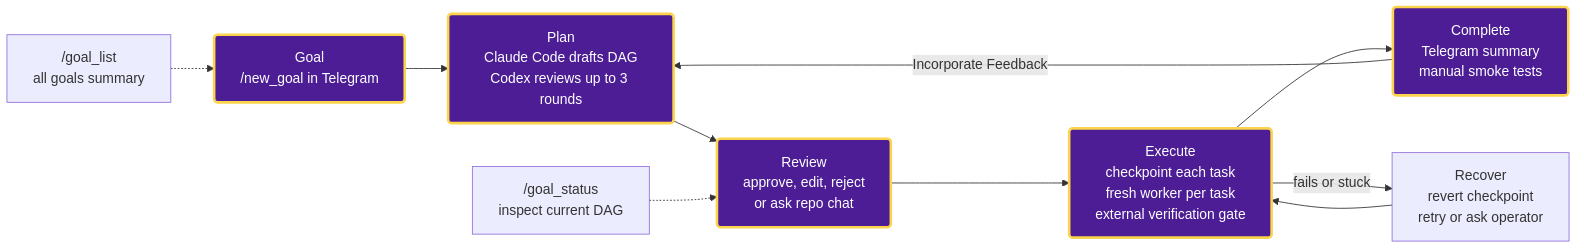
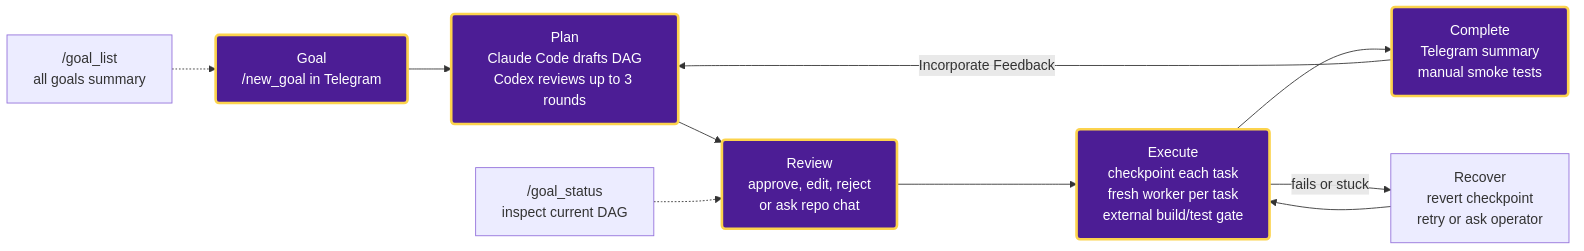
docs(readme): simplify SmithersBot flow diagram

diff --git a/README.md b/README.md
@@ -64,7 +64,7 @@ A typical operator loop is to use repo chat before `/new_goal` to sharpen the in
 flowchart LR
   A["Goal<br/>/new_goal in Telegram"] --> B["Plan<br/>Claude Code drafts DAG<br/>Codex reviews up to 3 rounds"]
   B --> C["Review<br/>approve, edit, reject<br/>or ask repo chat"]
-  C --> D["Execute<br/>checkpoint each task<br/>fresh worker per task<br/>external verification gate"]
+  C --> D["Execute<br/>checkpoint each task<br/>fresh worker per task<br/>external build/test gate"]
   D --> E["Complete<br/>Telegram summary<br/>manual smoke tests"]
   D -->|fails or stuck| F["Recover<br/>revert checkpoint<br/>retry or ask operator"]
   F --> D
